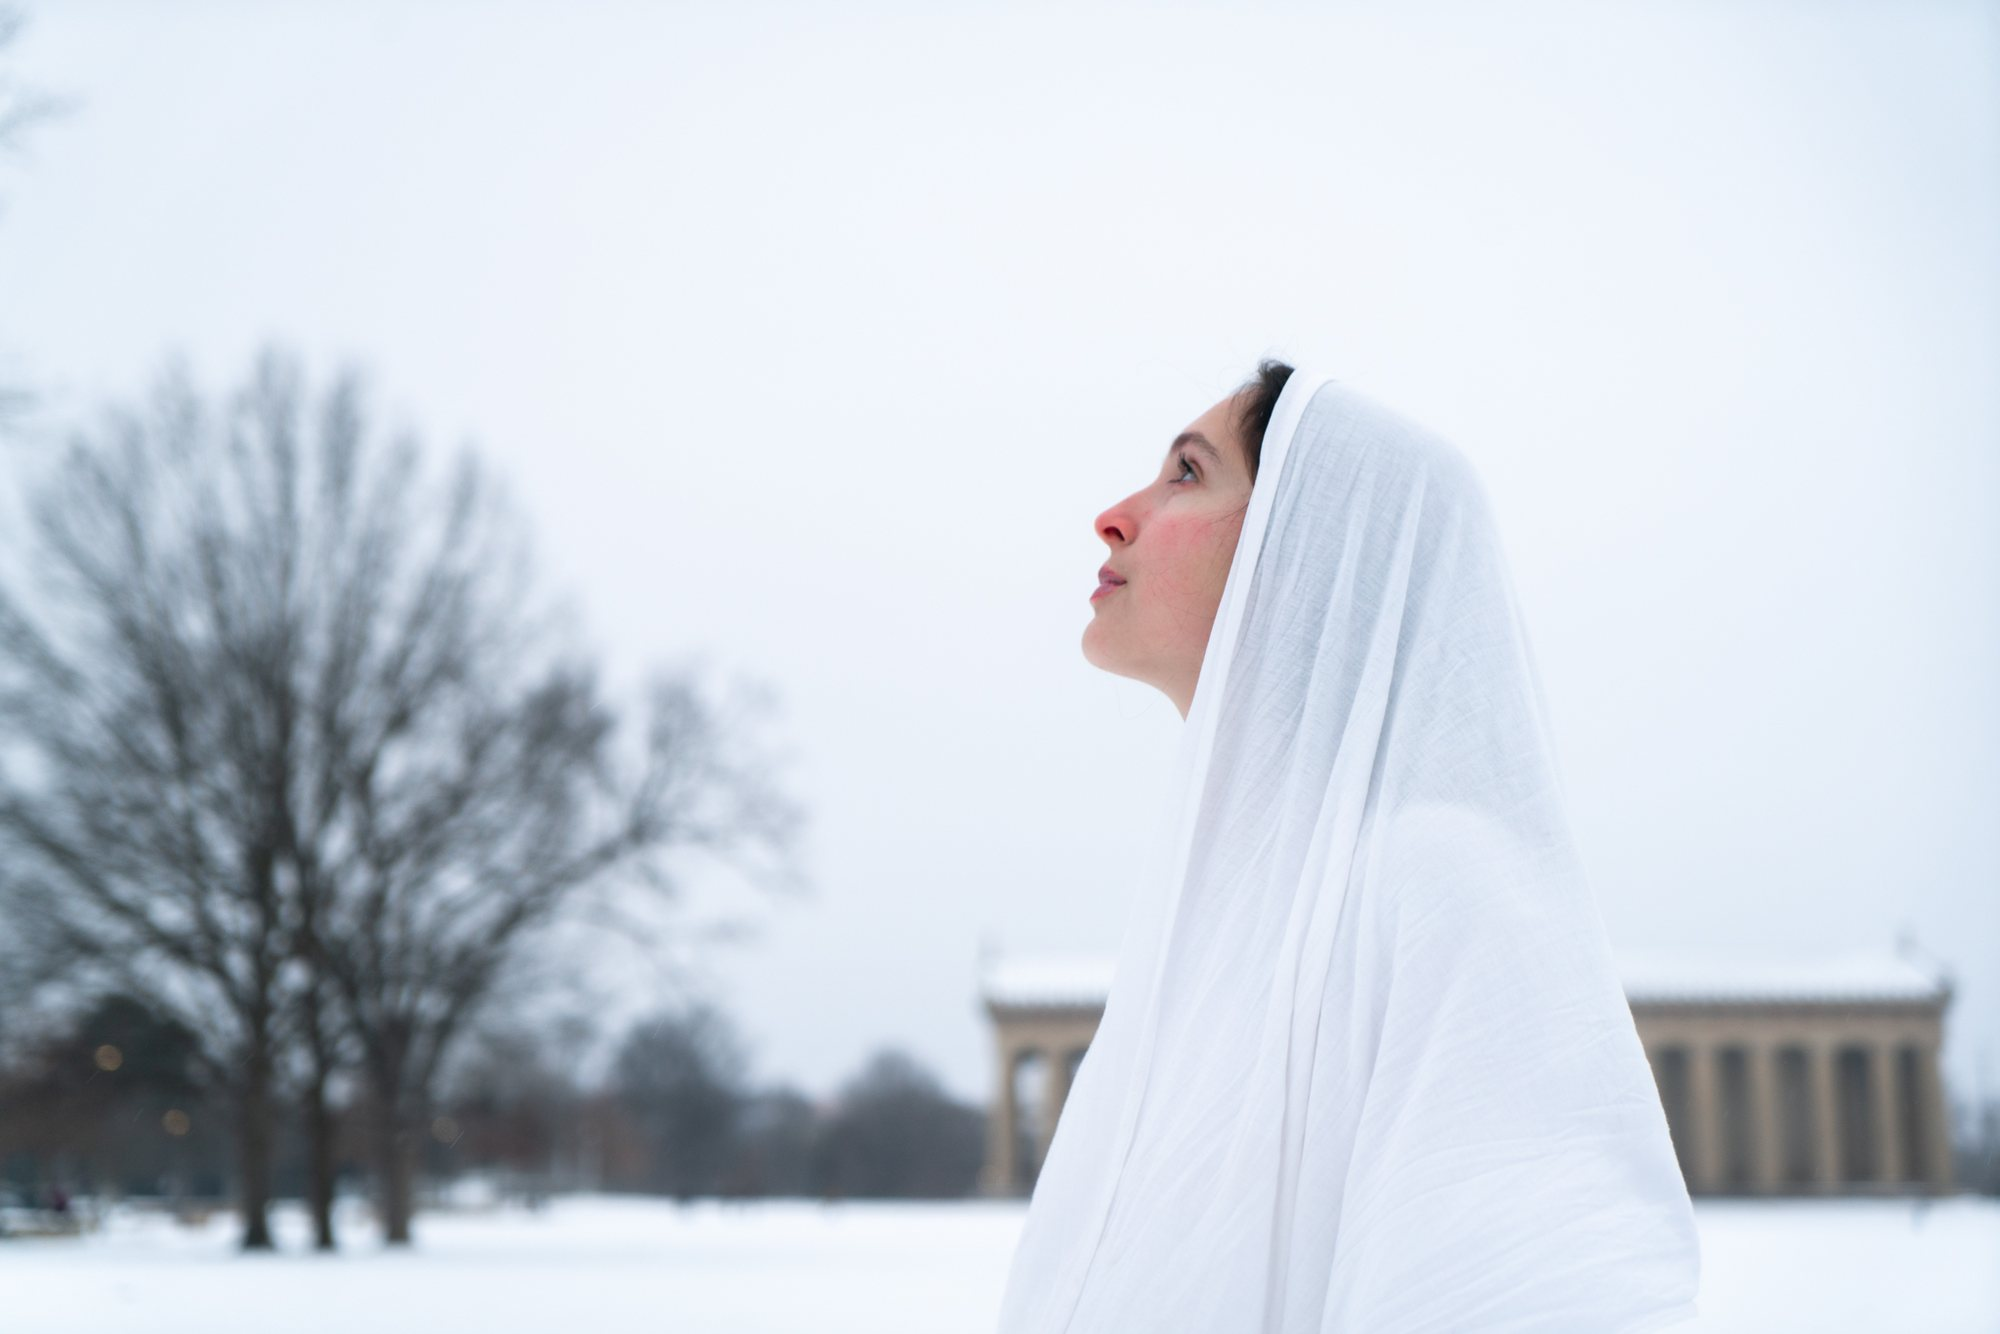
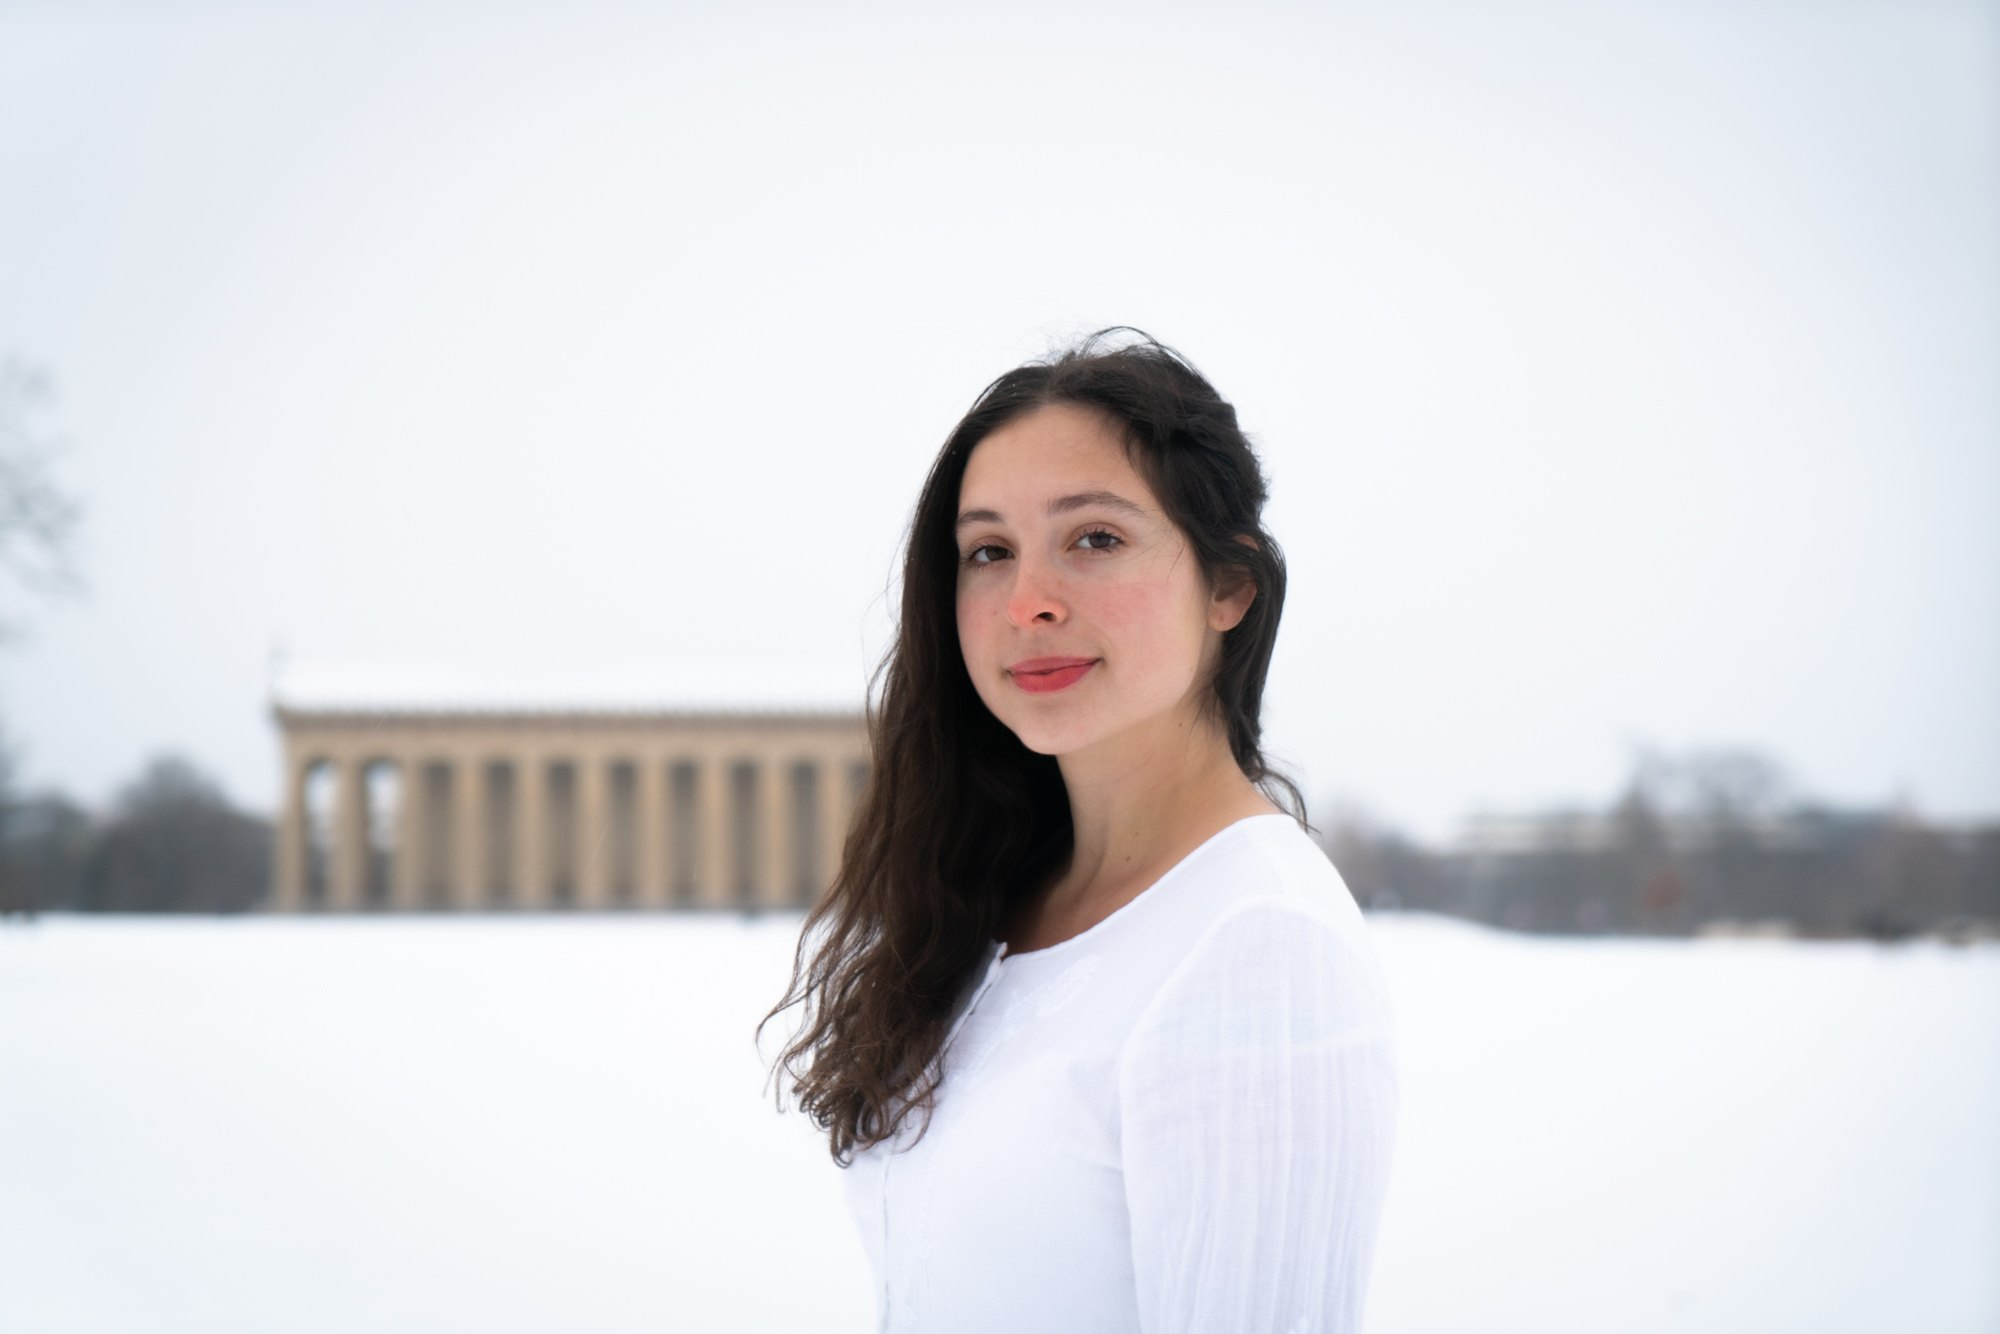
Swap White Horse Rider portrait

diff --git a/index.html b/index.html
@@ -483,7 +483,7 @@ body.cut .lbx{animation:lbx 1.3s cubic-bezier(.65,0,.25,1)}
     <div class="rn-head"><h2>White Horse Rider</h2><p>Single cover for Renouvelle</p></div>
     <div class="rn-g">
       <div class="a veil"><button class="fr" data-set="rn" data-i="0" aria-label="Open frame"><img src="media/whr-03.jpg" alt="A figure in white walking in front of a columned building, looking away" loading="lazy"></button></div>
-      <div class="b veil"><button class="fr" data-set="rn" data-i="1" aria-label="Open frame"><img src="media/whr-01.jpg" alt="Profile in a white veil, looking up" loading="lazy"></button></div>
+      <div class="b veil"><button class="fr" data-set="rn" data-i="1" aria-label="Open frame"><img src="media/whr-01.jpg" alt="Portrait in white in the snow, columned building behind" loading="lazy"></button></div>
       <div class="c veil"><button class="fr" data-set="rn" data-i="2" aria-label="Open frame"><img src="media/whr-02.jpg" alt="Walking away in a white veil across the snow" loading="lazy"></button></div>
     </div>
     <div class="credits">
